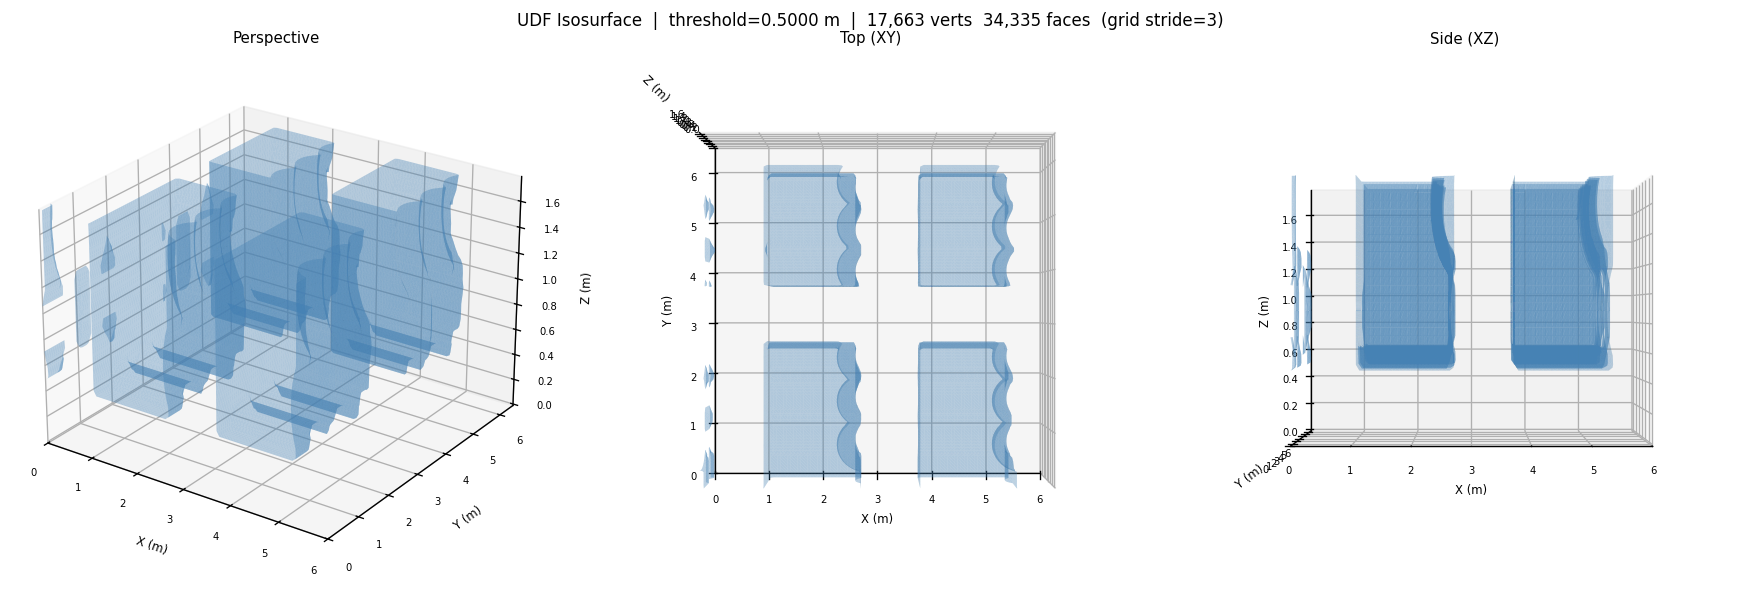
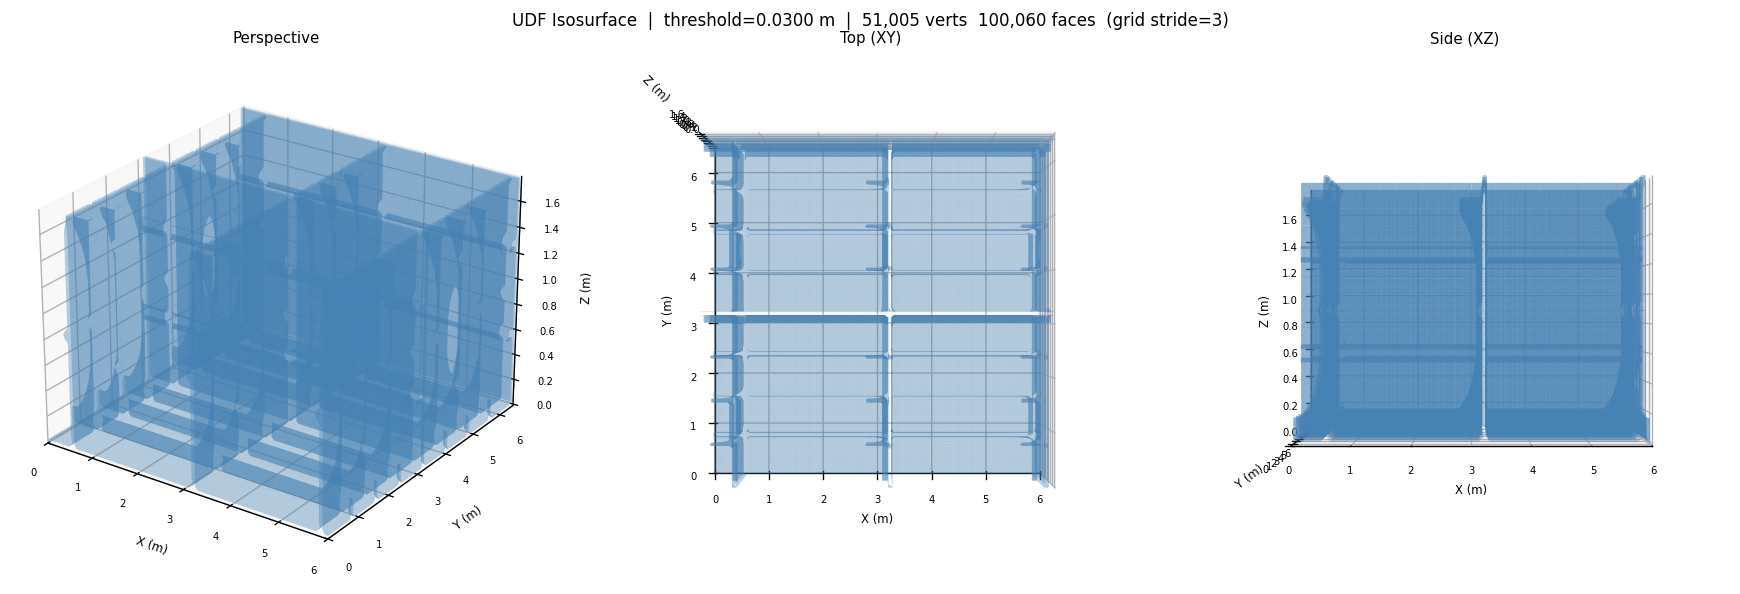
把margin调成了0.03，效果还可以

diff --git a/CBF_experiment/active/pybullet/4_1_udf.py b/CBF_experiment/active/pybullet/4_1_udf.py
@@ -41,8 +41,8 @@ DEFAULT_ARTIFACT_DIR = str(
 # ── 输入 / 输出 ─────────────────────────────────────────────────────────────
 # 已烘焙好的 .npz 路径。设为此值可直接跳过重新烘焙，只做渲染。
 # 若要从 URDF 重新烘焙，请将此项改为 None。
-#LOAD_NPZ: str | None = DEFAULT_OUTPUT_NPZ       # ← 直接加载上次结果
-LOAD_NPZ: str | None = None
+LOAD_NPZ: str | None = DEFAULT_OUTPUT_NPZ       # ← 直接加载上次结果
+#LOAD_NPZ: str | None = None
 
 # 当 LOAD_NPZ = None 时从此 URDF 烘焙（有默认场景时自动填入）。
 URDF_PATH: str | None = DEFAULT_URDF_ARG
@@ -61,7 +61,7 @@ RENDER_3D: bool = True           # ← 默认开启，直接从 LOAD_NPZ 渲染
 
 # 等值面提取的 UDF 阈值（单位：米）。
 # 越小越贴近网格面；越大等于给模型加一层"膨胀壳"。
-RENDER_3D_THRESHOLD: float = 0.5
+RENDER_3D_THRESHOLD: float = 0.03
 
 # 运行 marching cubes 前将 UDF 网格最长轴降采样到该值以内。
 # 越大细节越好，但渲染速度与 HTML 文件体积随之增加。